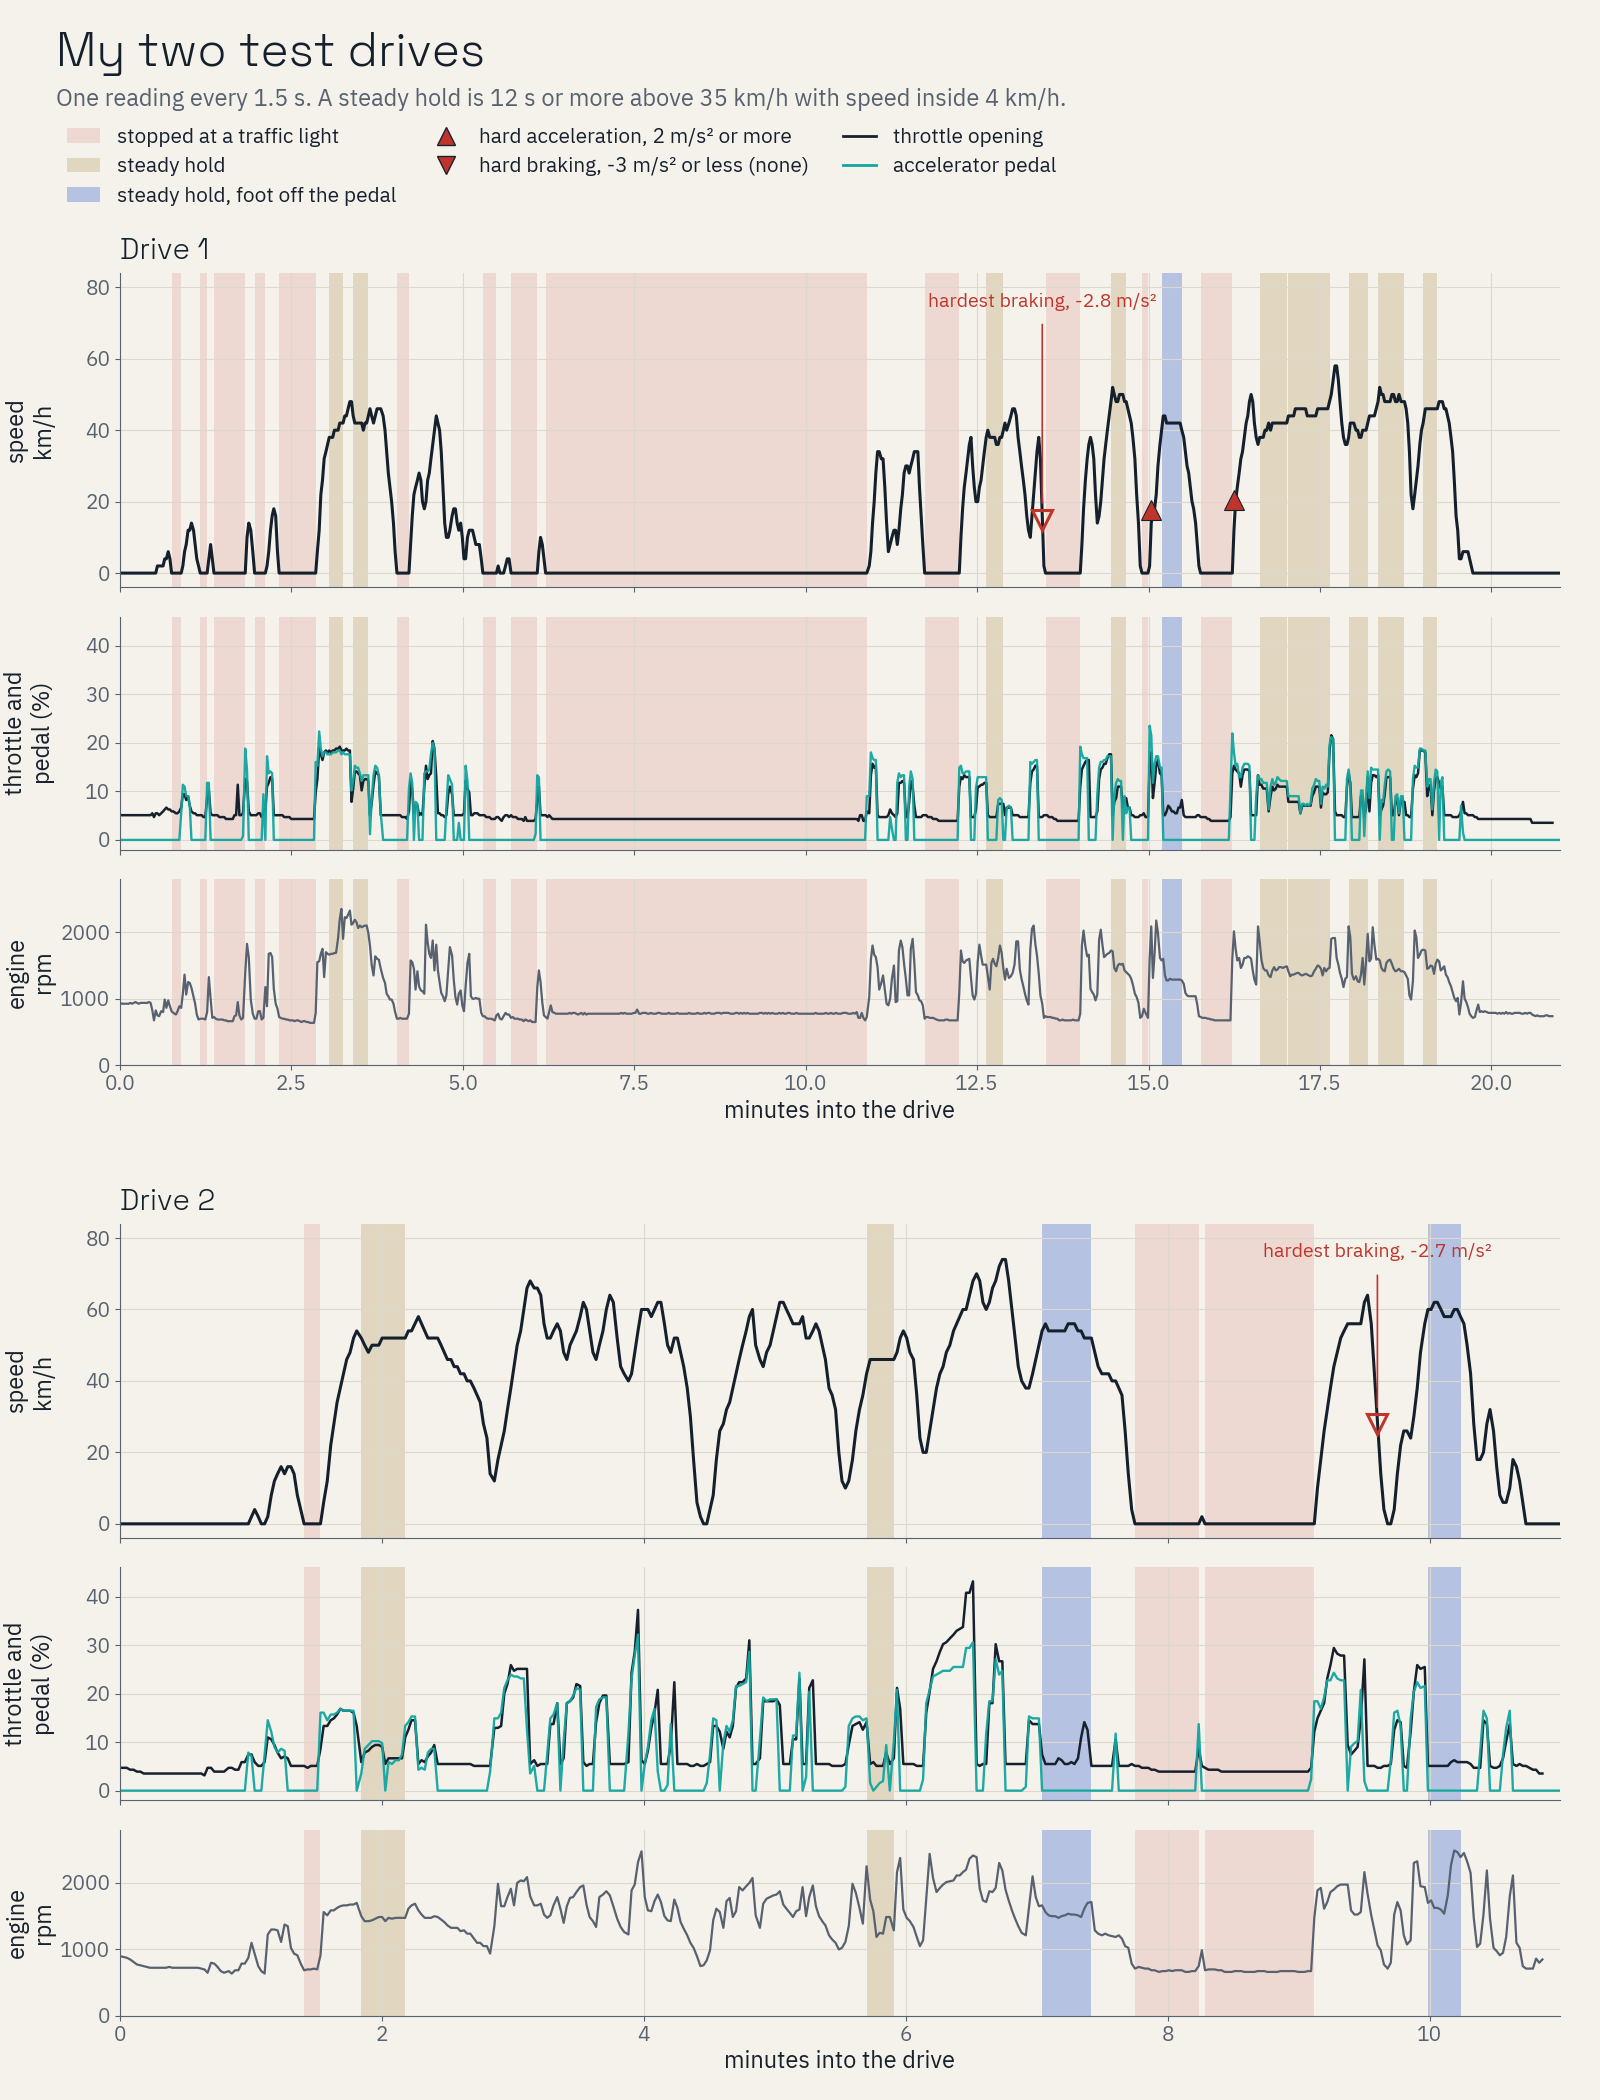
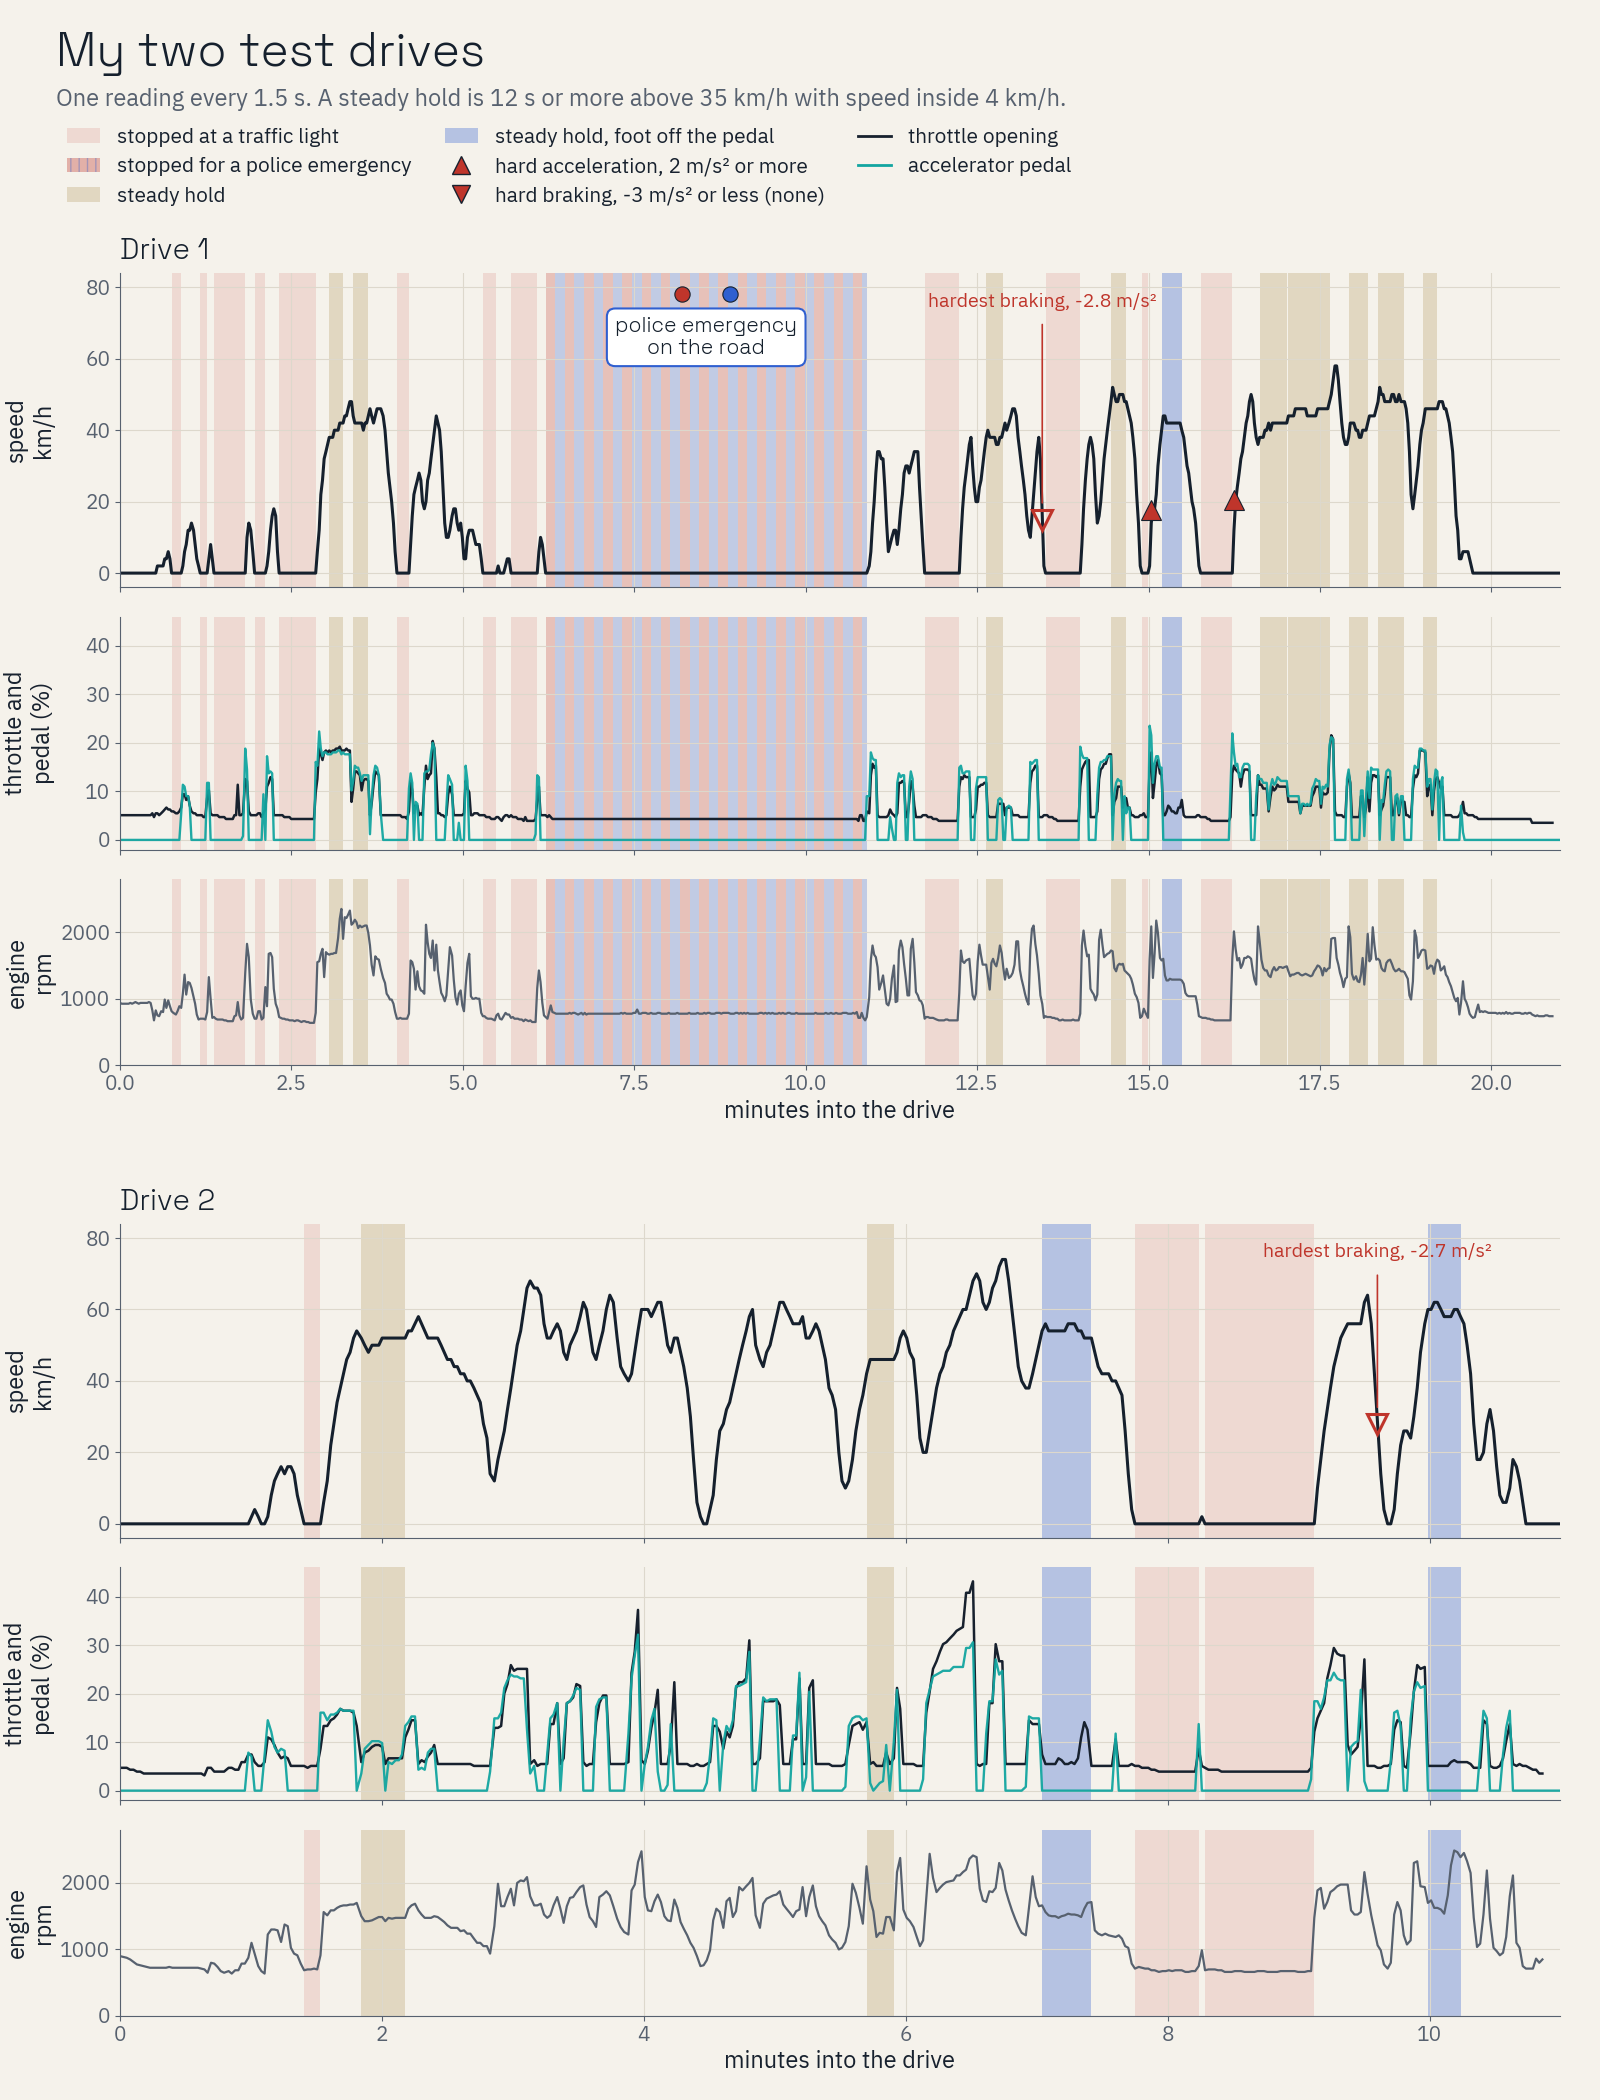
Test drives: the police-emergency stop, and why the drives make a fair test
Claude-Session: https://claude.ai/code/session_01XTAvvNGWPbxk6e88iM5qjd

diff --git a/docs/TEST_DRIVES.md b/docs/TEST_DRIVES.md
@@ -1,16 +1,26 @@
 # Test drives
 
-I drove my car twice to test the models, and not the way I usually drive. I drove rough, switched cruise control on and off at speed, and did sudden acceleration and brake checks between traffic lights. None of the models on `main` had seen these drives.
+I drove my car twice to test the models, and not the way I usually drive. I drove rough, switched cruise control on and off at speed, and did sudden acceleration and brake checks between traffic lights. In the first drive, police were dealing with an emergency on the road and I sat with the engine idling until it cleared. None of the models on `main` had seen these drives.
 
 ## What the plots show
 
 ![Timeline of both test drives](images/test-drives-timeline.png)
 
-The timeline shows speed, throttle, accelerator pedal and engine rpm. Red bands are stops at traffic lights. Sand bands are steady holds, and blue bands are holds with my foot off the pedal. Red triangles mark hard acceleration and hard braking.
+The timeline shows speed, throttle, accelerator pedal and engine rpm. Red bands are stops at traffic lights, and the red and blue stripes are the stop for the police emergency. Sand bands are steady holds, and blue bands are holds with my foot off the pedal. Red triangles mark hard acceleration and hard braking.
 
 ![Test drives against earlier drives](images/test-drives-distribution.png)
 
 The second figure sets the test drives against six of my everyday drives: speed, acceleration, throttle, and speed against throttle.
+
+## Why these drives make a fair test
+
+A model that only works on the drives it learned from is no use in your car. These two drives put the models in situations my everyday drives rarely show:
+
+- **A long idle.** The police stop was about three times longer than the longest stop in my everyday drives. The model has to keep saying "stopped" minute after minute while the engine runs.
+- **Stop and go.** Many short stops at traffic lights, each followed by a launch.
+- **Rough throttle and higher speeds.** The second drive spent more of its moving time above 20 % throttle than any of my everyday drives, and went faster than all of them.
+- **Cruise control on and off.** With cruise on, the car holds speed with my foot off the pedal, so the throttle moves while the pedal reads zero. A model that leans on the pedal would misread this.
+- **Sudden acceleration and brake checks.**
 
 ## How the drives are scored
 

diff --git a/README.md b/README.md
@@ -211,9 +211,9 @@ The [model card](MODEL_CARD.md) puts every step from E.V to the final R.E.V in o
 
 ### The test drives
 
-I drove my car twice to test the models, and not the way I usually drive. I drove rough, switched cruise control on and off at speed, and did sudden acceleration and brake checks between traffic lights. None of the models on `main` had seen these drives. I score them as if they came from a car the models never met: nothing carries over from my earlier drives, and every learner starts from its factory state.
+I drove my car twice to test the models, and not the way I usually drive. I drove rough, switched cruise control on and off at speed, and did sudden acceleration and brake checks between traffic lights. One drive includes a long stop while police dealt with an emergency on the road. None of the models on `main` had seen these drives. I score them as if they came from a car the models never met: nothing carries over from my earlier drives, and every learner starts from its factory state.
 
-<p align="center"><img src="docs/images/test-drives-timeline.png" width="900" alt="My two test drives: speed, throttle, accelerator pedal and engine rpm against time, with bands for stops at traffic lights, steady holds and holds with the foot off the pedal"></p>
+<p align="center"><img src="docs/images/test-drives-timeline.png" width="900" alt="My two test drives: speed, throttle, accelerator pedal and engine rpm against time, with bands for stops at traffic lights, a long stop for a police emergency, steady holds and holds with the foot off the pedal"></p>
 
 A comparison with my everyday drives is in [docs/TEST_DRIVES.md](docs/TEST_DRIVES.md).
 
